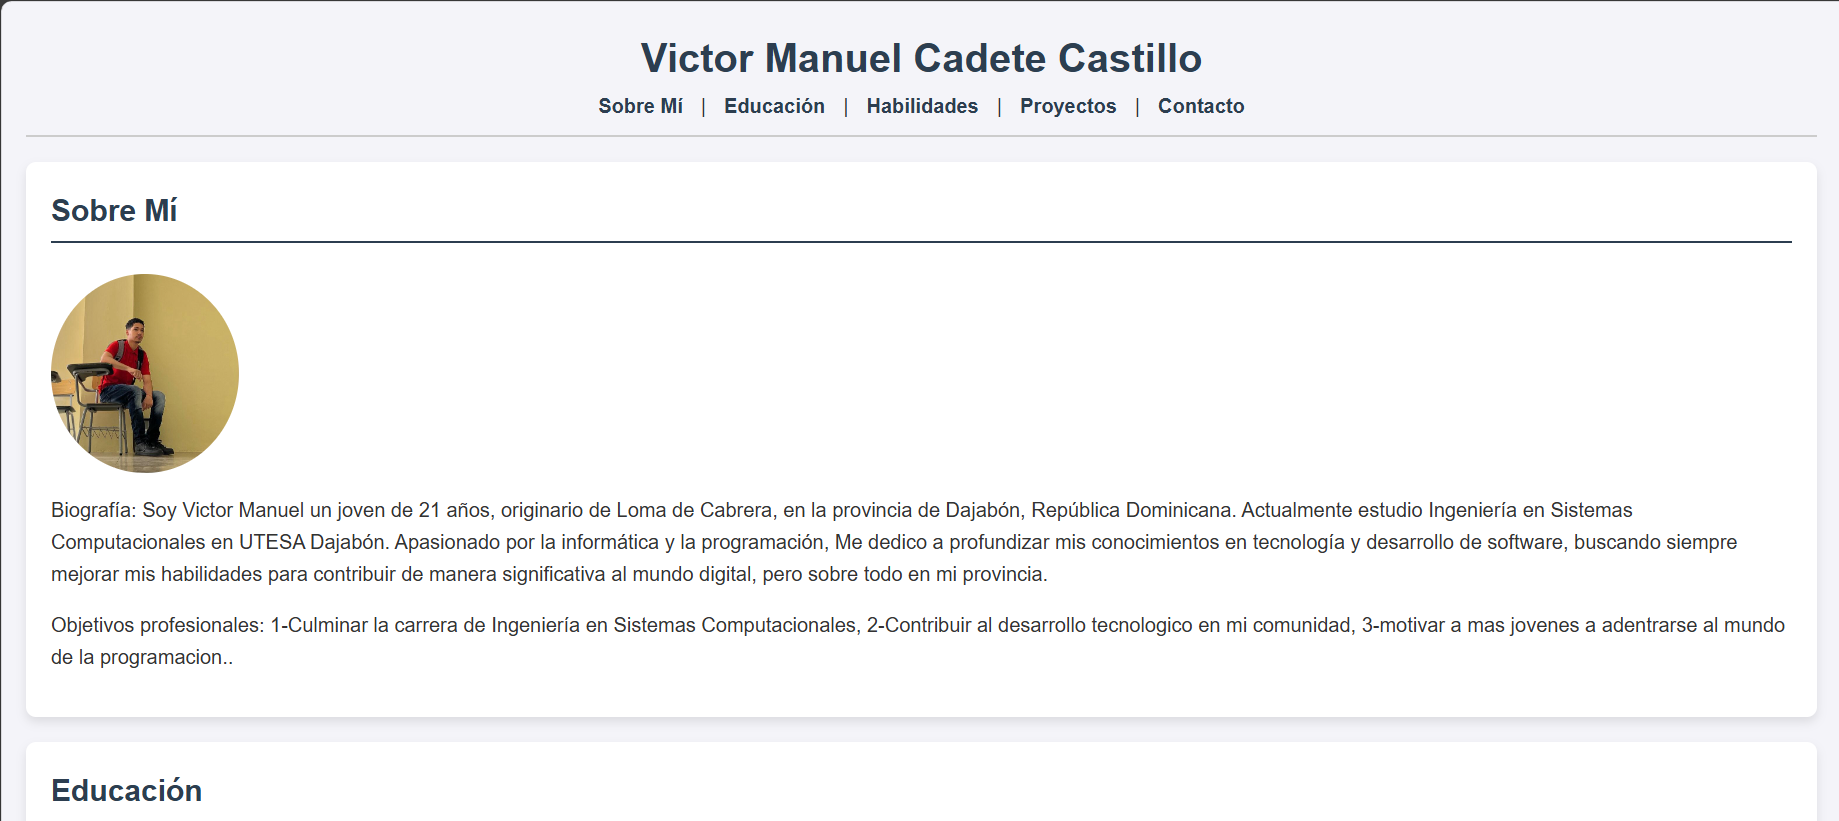
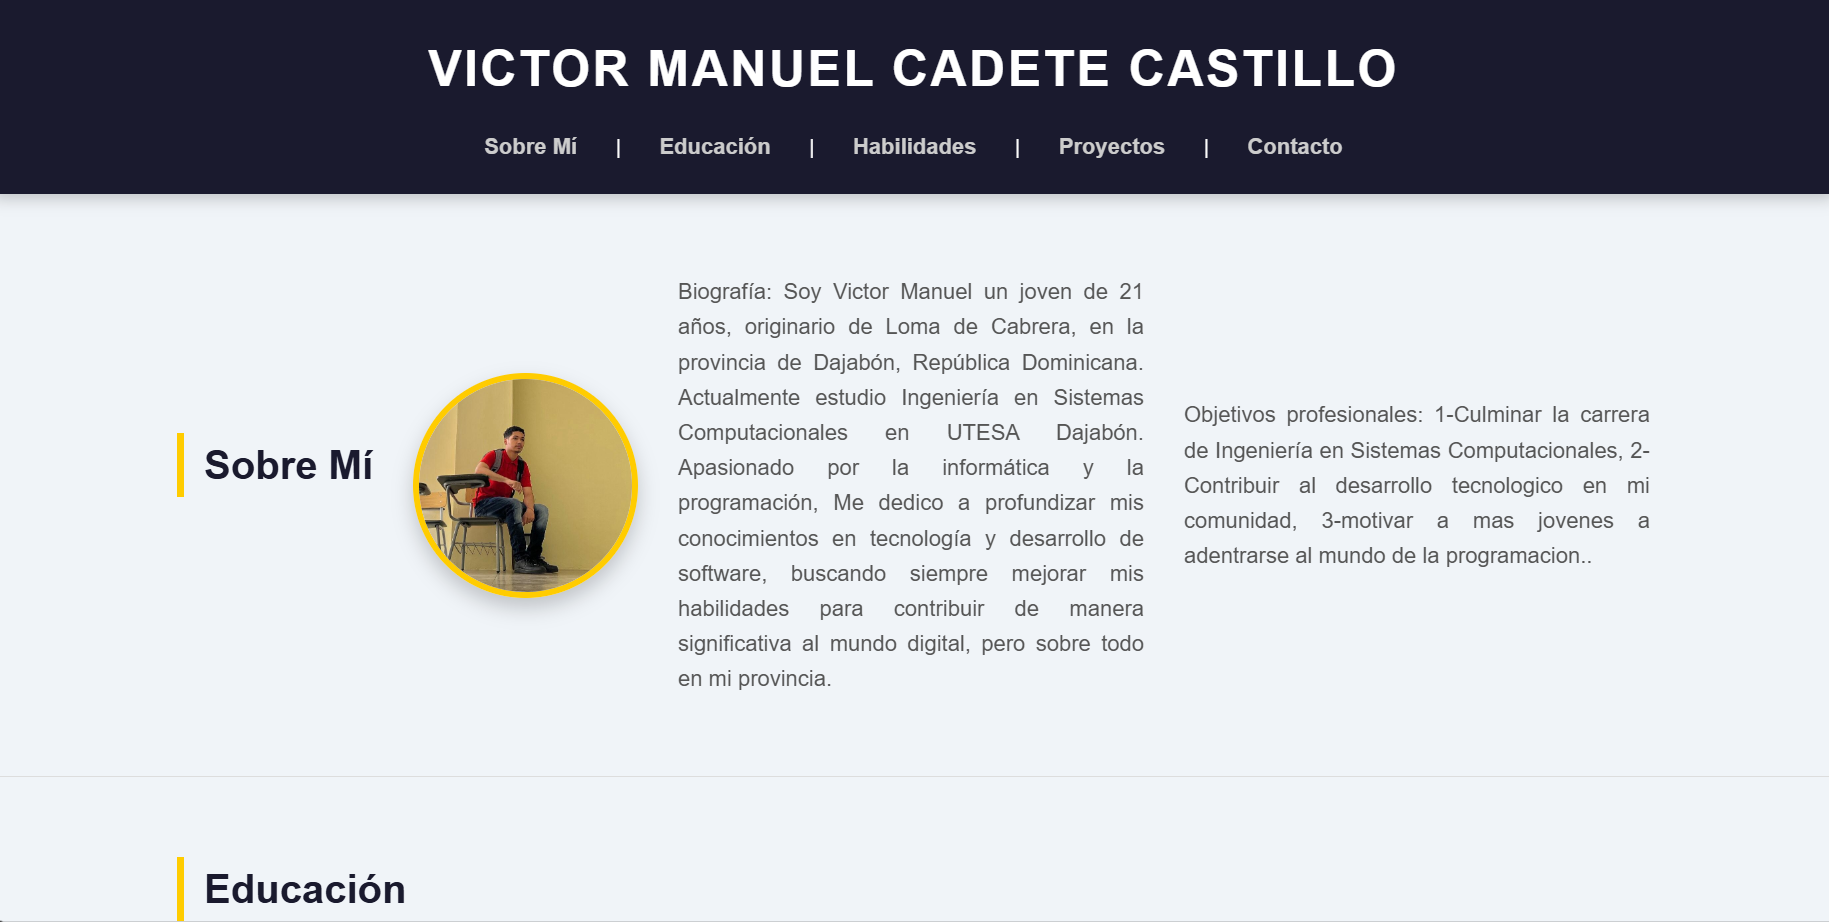
Modificacion absoluta del estilo de la pagina (CSS)

diff --git a/estilos.css b/estilos.css
@@ -1,94 +1,251 @@
-
+/* Reseteo básico */
 * {
     margin: 0;
     padding: 0;
     box-sizing: border-box;
+    font-family: 'Arial', sans-serif;
 }
- 
+
 body {
-    font-family: Arial, sans-serif;
-    line-height: 1.6;
+    background-color: #f0f4f8;
     color: #333;
-    background-color: #f4f4f9;
-    padding: 20px;
+    line-height: 1.6;
+    overflow-x: hidden;
 }
 
-h1, h2 {
-    color: #2c3e50;
-}
-
-p {
-    margin-bottom: 15px;
-    font-size: 1em;
-}
-
-a {
-    color: #3498db;
-    text-decoration: none;
-}
-
-a:hover {
-    color:blueviolet;
-    text-decoration: none;
-}
-
+/* Encabezado */
 header {
+    background-color: #1a1a2e;
+    color: #fff;
+    padding: 1.5em 5%;
     text-align: center;
-    padding-bottom: 10px;
-    margin-bottom: 20px;
-    border-bottom: 2px solid #ccc;
+    box-shadow: 0 4px 12px rgba(0, 0, 0, 0.2);
+    position: sticky;
+    top: 0;
+    z-index: 10;
 }
 
 header h1 {
-    font-size: 32px;
-}
-
-nav a {
-    margin: 0 10px;
+    font-size: 2.5em;
     font-weight: bold;
-    color: #2c3e50;
+    margin-bottom: 0.3em;
+    text-transform: uppercase;
+    letter-spacing: 2px;
 }
 
+header nav {
+    margin-top: 1em;
+}
+
+header nav a {
+    color: #ccc;
+    text-decoration: none;
+    font-weight: bold;
+    margin: 0 1.5em;
+    font-size: 1.1em;
+    transition: color 0.3s ease;
+}
+
+header nav a:hover {
+    color: #ffcc00;
+}
+
+/* Secciones generales */
 section {
-    background: white;
-    padding: 20px;
-    margin-bottom: 20px;
-    border-radius: 8px;
-    box-shadow: 0 4px 8px rgba(0, 0, 0, 0.1);
+    padding: 4em 10%;
+    transition: opacity 0.3s ease, transform 0.3s ease;
 }
 
-section h2 {
-    border-bottom: 2px solid #2c3e50;
-    padding-bottom: 5px;
-    margin-bottom: 15px;
-    font-size: 1.5em;
+section:not(:last-of-type) {
+    border-bottom: 1px solid #ddd;
 }
 
-
-.foto-perfil {
-    border-radius: 50%; 
-    margin: 10px 0;
+h2 {
+    font-size: 2em;
+    color: #1a1a2e;
+    border-left: 6px solid #ffcc00;
+    padding-left: 0.5em;
+    margin-bottom: 1em;
 }
 
-.captura-proyecto {
-    border-radius: 0; 
-    margin: 10px 0;
+/* Sección "Sobre Mí" */
+#sobre-mi {
+    display: flex;
+    align-items: center;
+    gap: 2em;
 }
 
+#sobre-mi .foto-perfil {
+    width: 180px;
+    height: 180px;
+    border-radius: 50%;
+    border: 5px solid #ffcc00;
+    box-shadow: 0px 8px 16px rgba(0, 0, 0, 0.2);
+    transition: transform 0.3s ease;
+}
 
+#sobre-mi .foto-perfil:hover {
+    transform: scale(1.05);
+}
+
+#sobre-mi p {
+    font-size: 1.1em;
+    text-align: justify;
+    flex: 1;
+    color: #555;
+}
+
+/* Estilos para enlaces */
+a {
+    color: #1a73e8;
+    text-decoration: none;
+    font-weight: bold;
+    transition: color 0.3s ease, transform 0.3s ease;
+}
+
+a:hover {
+    color: #ff3300;
+    transform: scale(1.05);
+}
+
+/* Sección "Proyectos" */
+#proyectos .captura-proyecto {
+    margin-top: 1em;
+    max-width: 100%;
+    border-radius: 12px;
+    box-shadow: 0px 4px 12px rgba(0, 0, 0, 0.3);
+    transition: transform 0.3s ease, box-shadow 0.3s ease;
+}
+
+#proyectos .captura-proyecto:hover {
+    transform: scale(1.02);
+    box-shadow: 0px 8px 24px rgba(0, 0, 0, 0.4);
+}
+
+/* Sección "Contacto" (Pie de página) */
 footer {
+    background-color: #1a1a2e;
+    color: #fff;
+    padding: 3em 10%;
     text-align: center;
-    padding: 10px;
-    background-color: #2c3e50;
-    color: white;
-    border-radius: 8px;
 }
 
 footer h2 {
-    color: white;
+    font-size: 1.8em;
+    color: #ffcc00;
+    margin-bottom: 1em;
 }
 
-
 footer a {
-    color: white;
+    display: inline-block;
+    margin-top: 0.5em;
+    font-size: 1.1em;
+    color: #ccc;
+    transition: color 0.3s ease, transform 0.3s ease;
+}
+
+footer a:hover {
+    color: #ffcc00;
+    transform: translateY(-3px);
+}
+
+/* Animaciones y transiciones */
+section {
+    opacity: 0;
+    transform: translateY(30px);
+    animation: fadeInUp 0.8s ease forwards;
+}
+
+header, footer {
+    animation: fadeIn 0.8s ease forwards;
+}
+
+@keyframes fadeIn {
+    from { opacity: 0; }
+    to { opacity: 1; }
+}
+
+@keyframes fadeInUp {
+    from {
+        opacity: 0;
+        transform: translateY(30px);
+    }
+    to {
+        opacity: 1;
+        transform: translateY(0);
+    }
+}
+
+/* Adaptabilidad para dispositivos móviles */
+@media (max-width: 768px) {
+    header h1 {
+        font-size: 2em;
+    }
+
+    header nav a {
+        display: block;
+        margin: 0.5em 0;
+        font-size: 1em;
+    }
+
+    section {
+        padding: 3em 5%;
+    }
+
+    #sobre-mi {
+        flex-direction: column;
+        text-align: center;
+    }
+
+    footer {
+        padding: 2em 5%;
+    }
+}
+
+/* Estilos para el pie de página */
+footer {
+    background-color: #1a1a2e;
+    color: #fff;
+    padding: 3em 10%;
+    text-align: center;
+}
+
+footer h2 {
+    font-size: 1.8em;
+    color: #ffcc00;
+    margin-bottom: 1em;
+}
+
+/* Estilos de cuadro para enlaces de contacto */
+footer a {
+    display: inline-block;
+    margin: 0.5em;
+    padding: 1em 1.5em;
+    font-size: 1.1em;
+    color: #ccc;
+    text-decoration: none;
+    font-weight: bold;
+    background-color: #333;
+    border-radius: 8px;
+    transition: background-color 0.3s ease, transform 0.3s ease;
+}
+
+footer a:hover {
+    background-color: #ffcc00;
+    color: #1a1a2e;
+    transform: translateY(-5px);
+}
+
+/* Estilo para los objetivos profesionales */
+.objetivos-profesionales {
+    margin: 1em 0;
+    padding-left: 1.5em;
+    font-size: 1em;
+    color: #333;
+    list-style-type: decimal; /* Muestra números para cada objetivo */
+}
+
+.objetivos-profesionales li {
+    margin-bottom: 0.5em;
+    line-height: 1.5em;
 }

diff --git a/index.html b/index.html
@@ -1,7 +1,7 @@
 <!DOCTYPE html>
 <html>
 <head>
-    <title>Mi Web Personal</title>
+    <title>Mi Portafolio Personal</title>
     <link rel="stylesheet" type="text/css"href="estilos.css">
 </head>
 <body>
